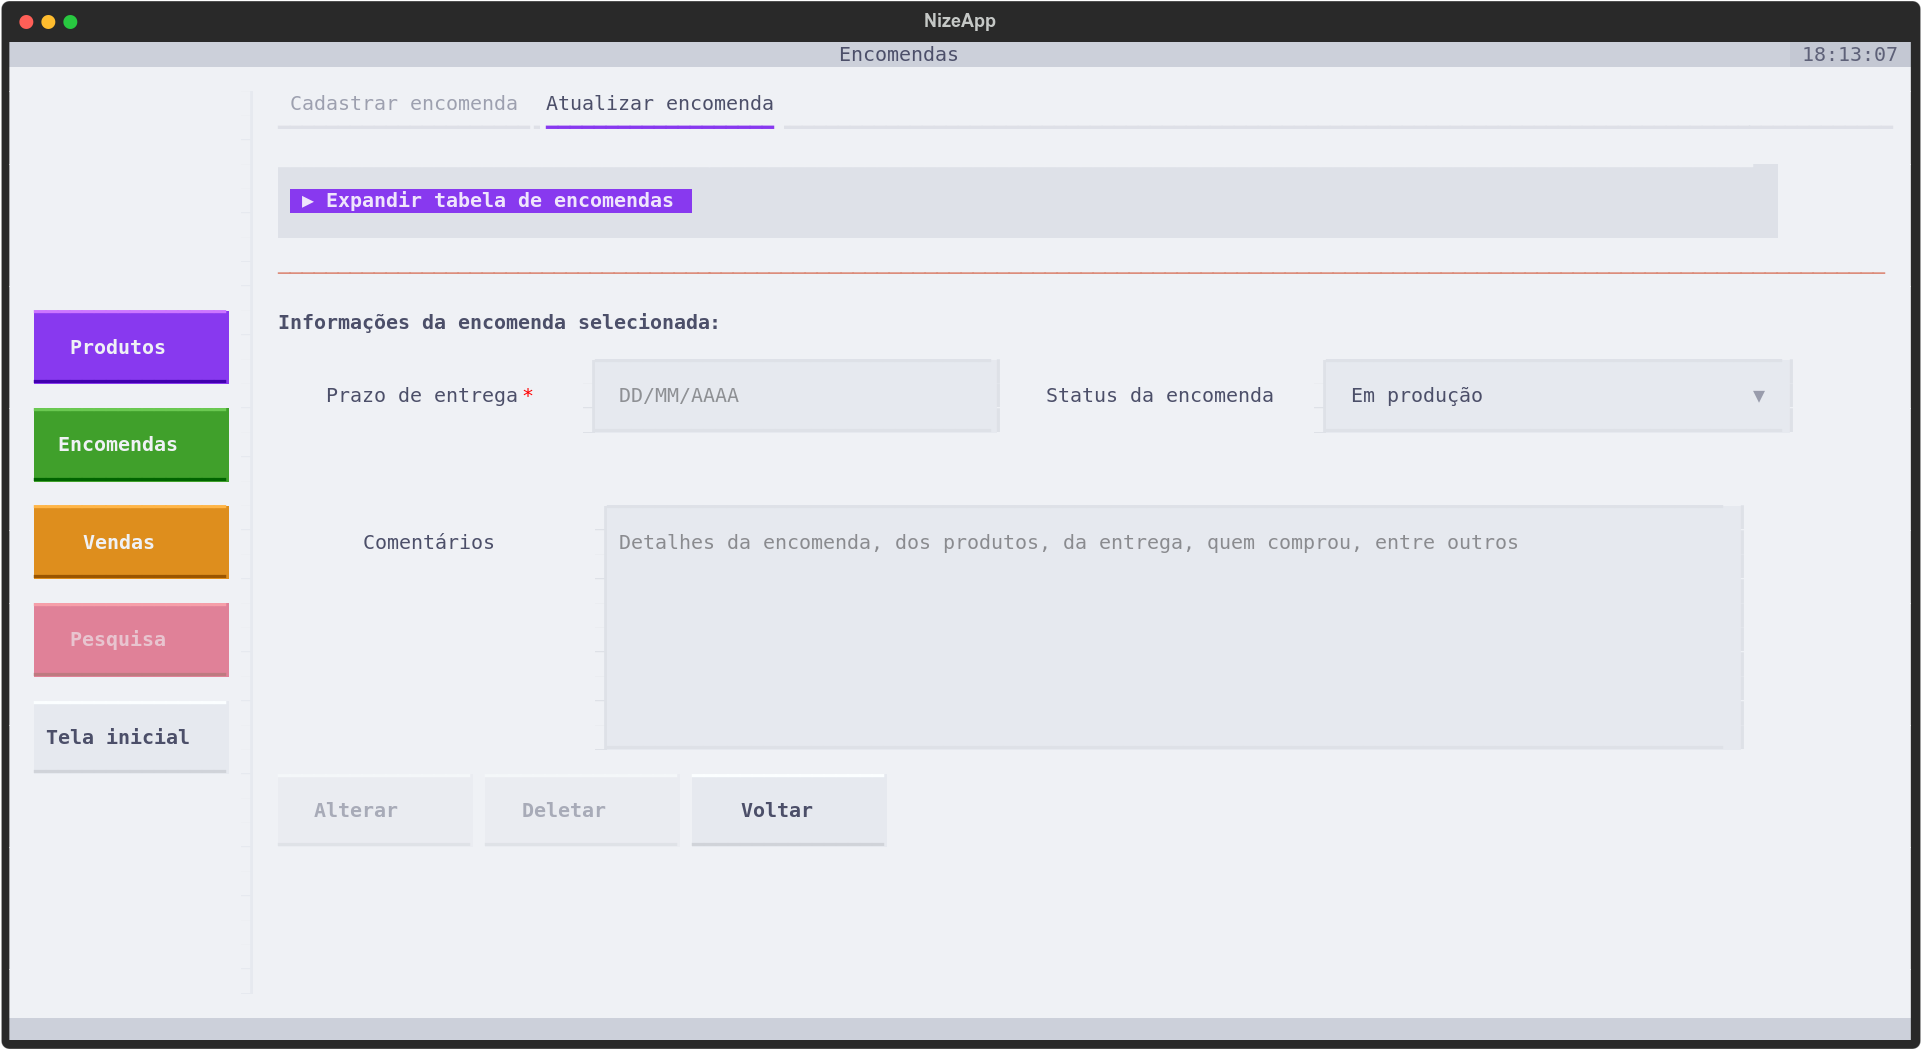
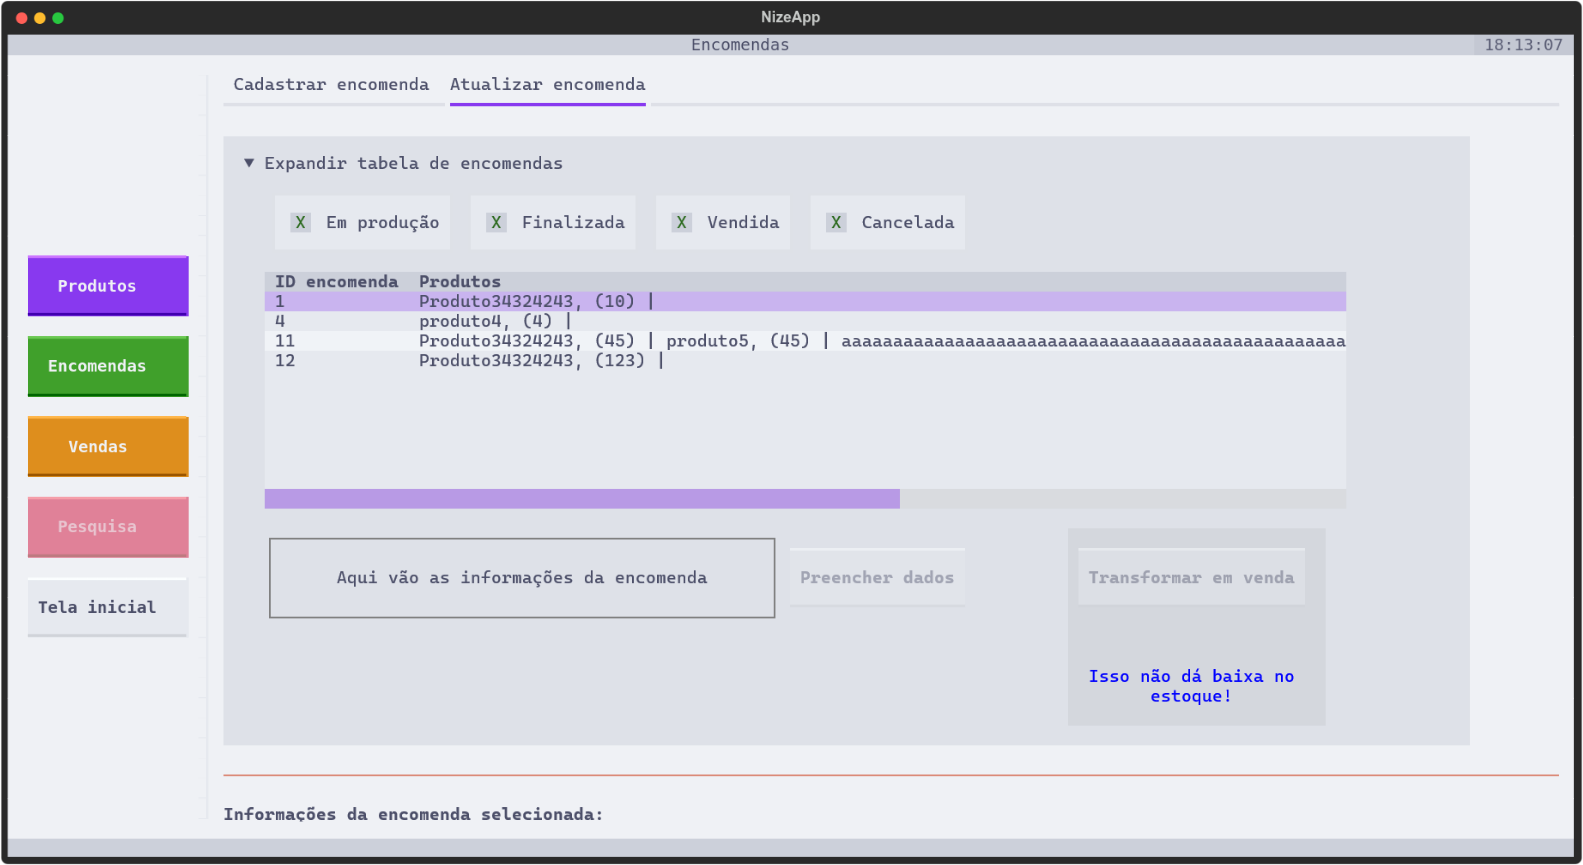
readme atualizado com manual de uso do sistema

diff --git a/README.md b/README.md
@@ -19,27 +19,53 @@ O sistema segue em desenvolvimento. Para as próximas etapas, está previsto:
 ### Tela de cadastro e atualização de produtos
 
 ![Getting Started](./Telas/tela_cadastro_produtos_fechado.png)
+> Tela de cadastro de produtos. Ao preencher os dados obrigatórios (nome do produto, quantidade e valor unitário), é liberado o botão de "cadastrar". O botão de "limpar" serve para limpar os campos preenchidos. Na parte superior, é possível expandir para ver a lista de produtos cadastrados e fazer alterações.
+
 ![Getting Started](./Telas/tela_cadastro_produtos_aberto.png)
+> Ao ser expandida, a parte de seleção de produtos aparece. Nela, é possível ver uma lista de produtos cadastrados e selecionar um deles. Ao ser selecionado, as informações dele aparecerão. Ao clicar em "Preencher dados", os campos serão preenchidos com as informações cadastradas do produto. Isso fará a liberação do botão "Alterar", que permite fazer alterações nos dados do produto.
 
 ### Tela de lista de produtos
 ![Getting Started](./Telas/tela_lista_produtos.png)
+<!-- ALTERAR ESSA IMAGEM  -->
+> A tela de Lista de produtos exibe uma tabela com todos os produtos cadastrados e suas informações. 
 
 ## Tela de encomendas
 ### Tela de cadastro de encomendas
 ![Getting Started](./Telas/tela_cadastro_encomenda_fechada.png)
+> Semelhante à tela de cadastro de produtos, a tela de cadastro de encomendas inicia com a parte superior fechada. Para criar uma encomenda, é necessário expandir a parte superior.
+
 ![Getting Started](./Telas/tela_cadastro_encomenda_aberta.png)
+> Com a parte superior expandida, é possível selecionar um produto cadastrado. Ao selecionar um produto, as informações dele aparecerão. Após adicionar uma quantidade e clicar no botão de "Adicionar", os produtos serão inseridos na tabela de encomendas (abaixo). É possível selecionar um produto na tabela e clicar em "Remover" para retirar ele da encomenda. Após inserir os dados obrigatórios (Prazo de entrega e status), o botão de "Cadastrar" será liberado.
+
+> IMPORTANTE: nesta tela, aparecem apenas produtos que foram cadastrados como "Aceita encomendas".
 
 ### Tela de atualização de encomendas
 ![Getting Started](./Telas/tela_atualizar_encomenda_aberta.png)
+> A tela de atualização de encomendas também necessita da expansão do bloco para visualizar a tabela de encomendas.
+
 ![Getting Started](./Telas/tela_atualizar_encomenda_aberta.png)
+> Após expandir, uma tabela de encomendas será mostrada. A tabela tem filtros por status (Em produção, Finalizada, Vendida e Cancelada). Ao selecionar uma encomenda na tabela, as informações dela serão preenchidas abaixo e o botão "Preencher dados" será liberado. Ao clicar neste botão, as informações serão preenchidas para fazer alterações na encomenda. Ao lado, o botão "Transformar em venda" permite que uma encomenda seja automaticamente transformada em venda. 
+
+> IMPORTANTE: 
+> - o botão de "Transformar em venda" não dá baixa dos produtos no estoque; 
+> - as alterações possíveis de serem feitas em uma encomenda são: prazo, status e comentários.
+
 
 ## Tela de vendas
 ### Tela de cadastro de venda
 ![Getting Started](./Telas/tela_cadastro_venda_fechada.png)
+> A tela de cadastro de vendas e encomendas é semelhante. É necessário expandir a parte superior para adicionar produtos à uma venda.
 
 ![Getting Started](./Telas/tela_cadastro_venda_aberta.png)
+> Ao expendir o bloco, é possível selecionar ume encomenda e ver suas informações. Há um seletor de "dar baixa do estoque", que, ao ser ativado, dará baixa dos produtos no estoque. Ao adicionar a quantidade, o botão de "Adicionar" será liberado."
+
+> Após isso, os produtos serão adicionados à tabela de vendas. Se um produto for selecionado na tabela, ele poderá ser removido da venda. É possível visualizar o valor total da venda. Após adicionar a data da venda, será possível realizar o cadastro.
 
 ### Tela de atualização de venda
 ![Getting Started](./Telas/tela_atualizar_venda_fechada.png)
-![Getting Started](./Telas/tela_atualizar_venda_aberta.png)
+> A tela de atualização de venda também inicia com o bloco fechado. Para fazer alterações, é necessário expandir o bloco.
 
+![Getting Started](./Telas/tela_atualizar_venda_aberta.png)
+> O bloco tem uma tabela com todas as vendas cadastradas. Ao selecionar uma venda, será possível visualizar as informações dela. Ao clicar em "Preencher dados", será possível fazer atualizações na venda.
+
+> IMPORTANTE: as alterações possíveis de serem feitas em uma venda são: data, status e comentários.
